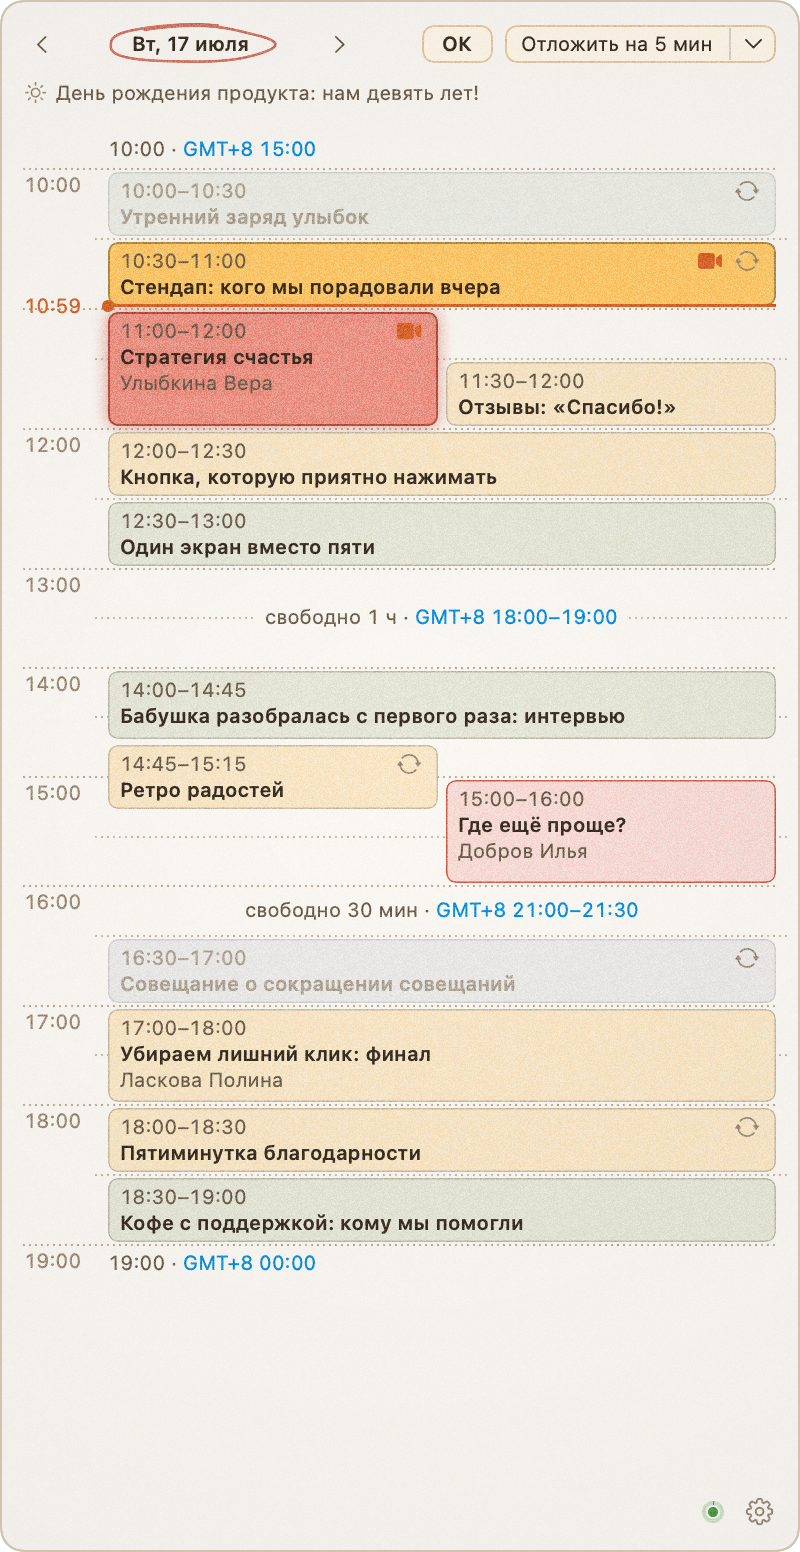
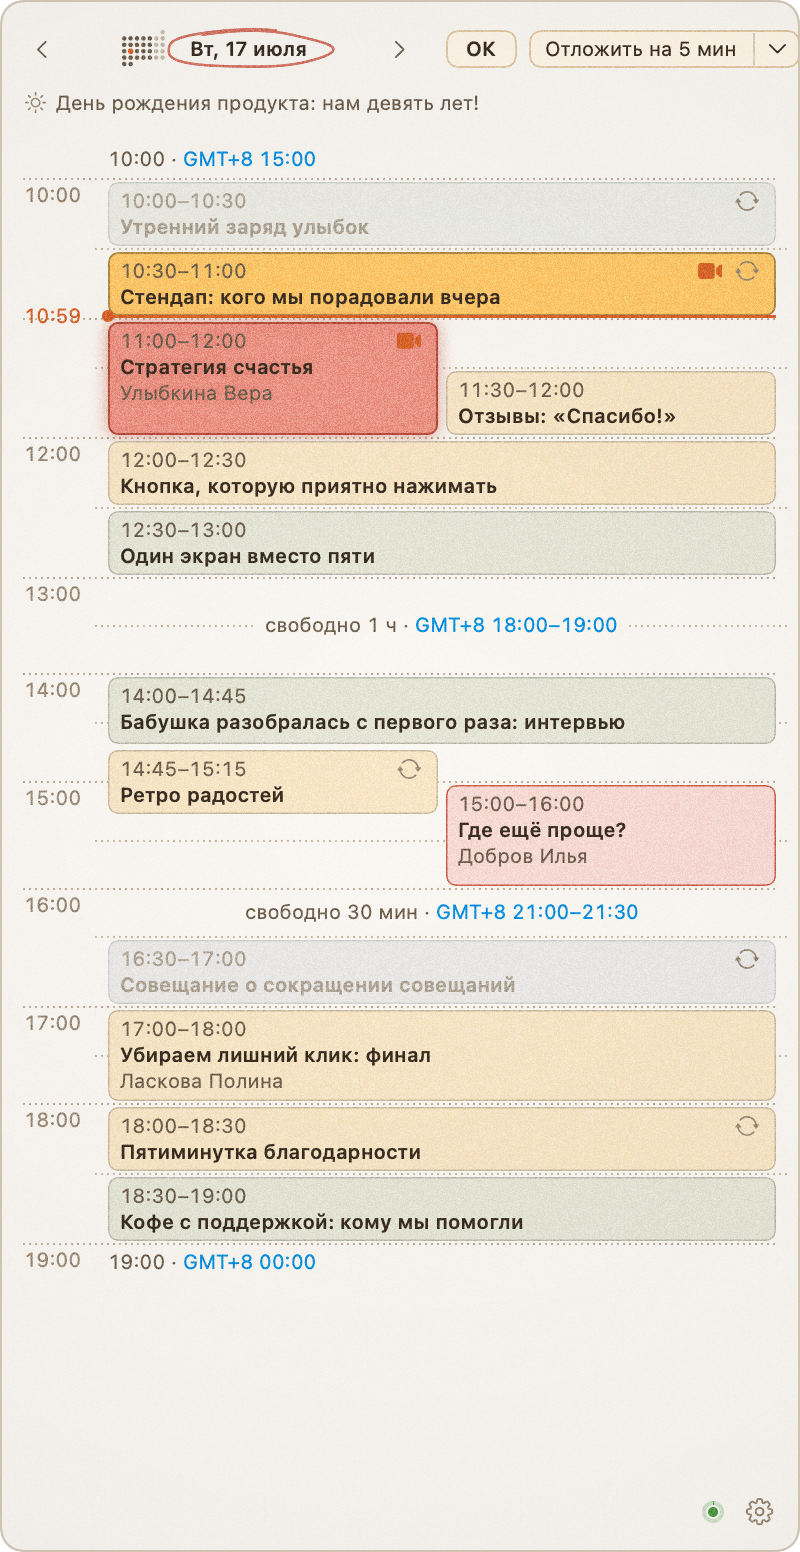
Перед датой дня — месяц точками: выходные бледнее, сам день ярким
Claude-Session: https://claude.ai/code/session_01SW6W8P3aC11VdsTxCJVhW8

diff --git a/Sources/Butler/Panel.swift b/Sources/Butler/Panel.swift
@@ -407,18 +407,22 @@ struct DayView: View {
             // Кружок — по рамке подсветки, как у стрелок рядом: отступ `Hover` (6 по бокам, 3 сверху и снизу)
             // почти весь уходит под кружок, а от него до текста — ещё 6 pt.
             Button { app.openMonth() } label: {
-                Text(dayTitle(app.shownDay) ?? "").font(Ink.title).foregroundStyle(Ink.primary)
-                    .padding(.horizontal, 6)
-                    .overlay {
-                        if app.config.markedDays.contains(app.shownDay) {
-                            Pencil().stroke(ink(0xCF5F4C).opacity(0.85), style: StrokeStyle(lineWidth: 1.3, lineCap: .round))
-                                .padding(.horizontal, -5).padding(.vertical, -2.5)
+                // Отступ — под карандашную обводку отмеченного дня: она выходит за текст на 5 pt.
+                HStack(spacing: 6) {
+                    Dots(day: app.shownDay, workdays: app.state.workdays)
+                    Text(dayTitle(app.shownDay) ?? "").font(Ink.title).foregroundStyle(Ink.primary)
+                        .padding(.horizontal, 6)
+                        .overlay {
+                            if app.config.markedDays.contains(app.shownDay) {
+                                Pencil().stroke(ink(0xCF5F4C).opacity(0.85), style: StrokeStyle(lineWidth: 1.3, lineCap: .round))
+                                    .padding(.horizontal, -5).padding(.vertical, -2.5)
+                            }
                         }
-                    }
+                }
             }
             .keyboardShortcut(key(.return))
             .help("Календарь на месяц")
-            .frame(width: 124)
+            .frame(width: 154)
             Button { app.shift(1) } label: { Image(systemName: "chevron.right") }
                 .keyboardShortcut(key(.rightArrow))
                 .help("Следующий день")
@@ -632,6 +636,31 @@ func dayTitle(_ day: String) -> String? {
     guard let date = parser.date(from: day) else { return nil }
     let text = date.formatted(.dateTime.weekday(.abbreviated).day().month(.wide).locale(Locale(identifier: "ru_RU")))
     return text.prefix(1).uppercased() + text.dropFirst()
+}
+
+/// Месяц точками — значок перед датой дня: по точке на день, недели строками с понедельника. Выходные и праздники
+/// бледнее, сам день — ярким: с одного взгляда видно, начало это месяца или конец и какой день недели.
+struct Dots: View {
+    let day: String
+    let workdays: [String: Workdays]
+
+    var body: some View {
+        let month = monthOf(day)
+        let weeks = grid(month).filter { $0.contains { monthOf($0) == month } }
+        let (size, pitch): (CGFloat, CGFloat) = (2.2, 3.2)
+        // Высота — на шесть недель, чтобы дата не прыгала; месяц короче — посередине.
+        Canvas { context, frame in
+            let top = (frame.height - CGFloat(weeks.count) * pitch) / 2
+            for (row, week) in weeks.enumerated() {
+                for (column, d) in week.enumerated() where monthOf(d) == month {
+                    let dot = CGRect(x: CGFloat(column) * pitch, y: top + CGFloat(row) * pitch, width: size, height: size)
+                    let color = d == day ? Ink.accent : nonWorking(d, workdays: workdays) ? Ink.faded.opacity(0.7) : Ink.secondary
+                    context.fill(Path(ellipseIn: d == day ? dot.insetBy(dx: -0.3, dy: -0.3) : dot), with: .color(color))
+                }
+            }
+        }
+        .frame(width: 7 * pitch, height: 6 * pitch)
+    }
 }
 
 /// Кнопки напоминания в заголовке, справа от даты, — пока встреча звенит или я на неё опаздываю:
